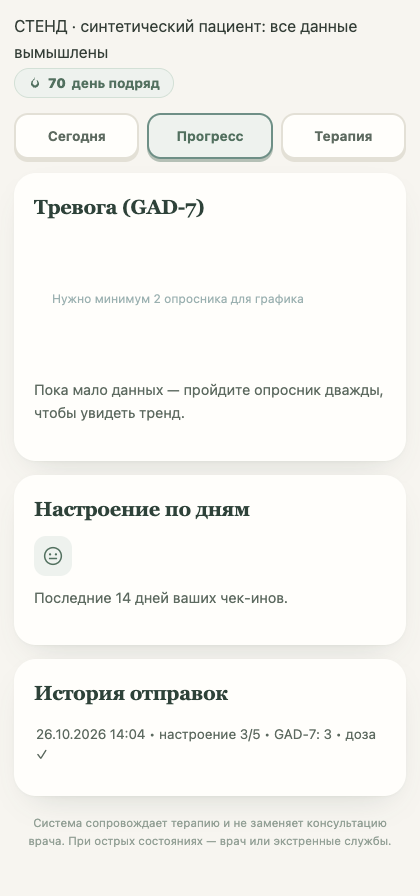
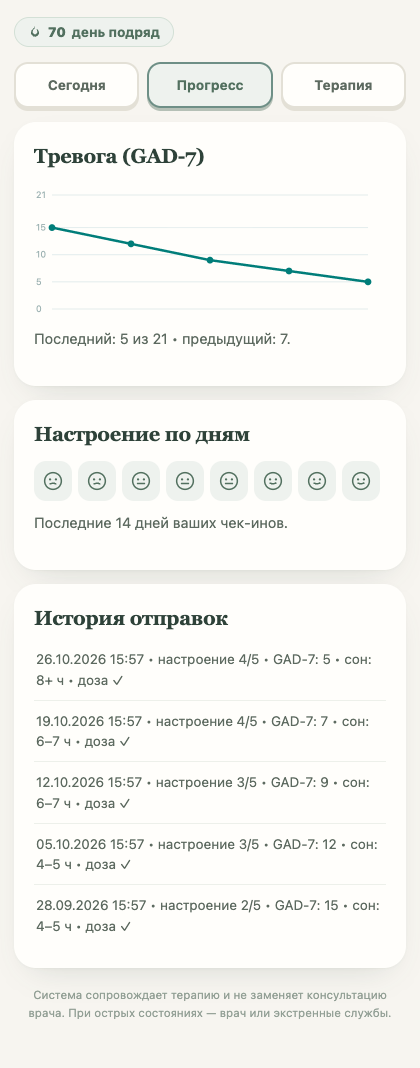
docs(screens): 40 сценарных скриншотов обоих интерфейсов + индекс; прогресс с трендом 15→5

diff --git a/docs/screens/scenarios/INDEX.md b/docs/screens/scenarios/INDEX.md
@@ -1,0 +1,42 @@
+# Сценарные скриншоты COMPASS (v9.6, 26.10.2026)
+
+## Врач: ЭМК + сайдбар-ассистент
+| Файл | Сценарий |
+|---|---|
+| 01 | ЭМК вендора — вход (ГБУЗ №158) |
+| 02 | Журнал приёма (105 синтетических пациентов) |
+| 03 | Карта пациента (ф. 025/у) — отсюда COMPASS читает данные |
+| 04 | Вход врача в COMPASS |
+| 05 | **Панель: вердикт ЖЁЛТЫЙ + красный алерт с бейджем ОБЯЗАТЕЛЬНО + записка пациента** |
+| 06 | Записка: расписание приёма (полоса 14 дн.) |
+| 07 | График GAD-7 с линиями КР МЗ РФ |
+| 08 | Чат-мессенджер с пациентом |
+| 09 | Дашборд: критический алерт С-104 (кризис) |
+| 10 | HAM-A-14 — оценка врача |
+| 11 | **Неполадки приёма**: чипы-флаги (пропуски/плавает время/дропаут) |
+| 12 | **Аналитика выборки**: диаграмма кластеров + ключевые цифры |
+| 13 | Когорта (105, поиск) |
+| 14 | Система: PK, 24D-карта, SLA |
+| 15–16 | What-if CYP2D6, микросети INT8 |
+| 17 | QR-приглашение |
+| 18 | PDF-отчёт по пациенту |
+
+## Пациент: PWA
+| Файл | Сценарий |
+|---|---|
+| 19 | «Сегодня»: веха недели + стрик |
+| 20–21 | Чек-ин: шаг 2 (настроение), шаг 3 (отправка) |
+| 22–23 | **GAD-7 (Г2 КР МЗ РФ)**: вопрос + tip в момент ответа |
+| 24 | HADS-14 — варианты зашиты в бланк |
+| 25 | Каскад SAFETY — входной вопрос |
+| 26 | Итог опросников перед отправкой |
+| 27–30 | Дневник: сон → силы → жалобы с подсказкой → заметка |
+| 31 | Отправка чек-ина |
+| 32 | Фидбек «Врач увидит ваш ответ сегодня» + чат |
+| 33 | **Прогресс: тренд GAD-7 15→5** |
+| 34 | Терапия: что ожидать |
+| 35 | Чат с врачом (пузыри) |
+| 36–39 | Привязка по QR → онбординг → дом |
+| 40 | Дом свежего пациента |
+
+PDF-образцы: ../report_patient_sample.pdf, ../report_cohort_sample.pdf
